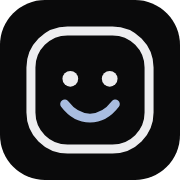
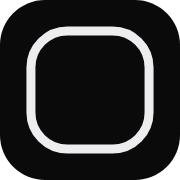
fix(site): drop the smiley mark and unslop landing chrome
Header and footer are the word sillyapps only. Favicon and apple-touch keep the rounded square without a face. Eyebrows stay sentence case. Hero emphasis is muted roman, not italic. Buttons and the theme toggle use nested radii instead of pills. App notes are text with middots. Hero padding is tighter so the empty band is shorter.

Copy is unchanged.

Changed region(s): [[0.3333, 0.5556, 0.6667, 0.6944], [0.5556, 0.3889, 0.6667, 0.5], [0.3333, 0.3889, 0.4444, 0.5]]

diff --git a/site/styles.css b/site/styles.css
@@ -20,6 +20,8 @@
   --shadow: 0 1px 2px var(--shadow-color), 0 8px 24px var(--shadow-color);
   --radius: 14px;
   --radius-sm: 8px;
+  --radius-control: 10px;
+  --radius-lg: 16px;
   --serif: "Iowan Old Style", "Palatino Linotype", Palatino, "Book Antiqua", Georgia, serif;
   --sans: "Inter", ui-sans-serif, system-ui, -apple-system, "Segoe UI", Roboto, "Helvetica Neue", Arial, sans-serif;
   --mono: ui-monospace, "SF Mono", Menlo, Consolas, monospace;
@@ -58,8 +60,7 @@ a:hover { text-decoration-color: currentColor; }
   display: flex; align-items: center; justify-content: space-between; gap: var(--s4);
   padding: var(--s5) 0;
 }
-.wordmark { display: inline-flex; align-items: center; gap: 10px; color: var(--ink); text-decoration: none; font-weight: 600; font-size: 15px; letter-spacing: -0.01em; }
-.wordmark-mark { width: 22px; height: 22px; }
+.wordmark { display: inline-flex; align-items: center; color: var(--ink); text-decoration: none; font-weight: 600; font-size: 15px; letter-spacing: -0.01em; }
 .header-tools { display: flex; align-items: center; gap: var(--s5); margin-left: auto; }
 .byline { display: flex; align-items: center; gap: var(--s5); margin: 0; color: var(--muted); font-size: 14px; }
 .byline a, .header-waitlist { color: var(--muted); text-decoration: none; font-size: 14px; }
@@ -67,35 +68,31 @@ a:hover { text-decoration-color: currentColor; }
 .nav-hide-sm { }
 @media (max-width: 640px) { .nav-hide-sm { display: none; } .header-tools { gap: var(--s3); } }
 
-.theme-toggle { position: relative; display: inline-flex; margin: 0; padding: 2px; border: 1px solid var(--line); border-radius: 999px; font-size: 12px; }
+.theme-toggle { position: relative; display: inline-flex; margin: 0; padding: 2px; border: 1px solid var(--line); border-radius: var(--radius-control); font-size: 12px; }
 .theme-toggle legend { position: absolute; width: 1px; height: 1px; overflow: hidden; clip: rect(0 0 0 0); white-space: nowrap; }
-.theme-toggle label { display: inline-flex; align-items: center; padding: 3px 10px; border-radius: 999px; color: var(--muted); cursor: pointer; }
+.theme-toggle label { display: inline-flex; align-items: center; padding: 3px 10px; border-radius: var(--radius-sm); color: var(--muted); cursor: pointer; }
 .theme-toggle label:has(input:checked) { color: var(--ink); background: var(--paper-2); box-shadow: inset 0 0 0 1px var(--line); }
 .theme-toggle input { position: absolute; opacity: 0; width: 1px; height: 1px; margin: 0; pointer-events: none; }
 .theme-toggle label:focus-within { outline: 2px solid var(--accent); outline-offset: 2px; }
 
-/* Shared type */
-.eyebrow { margin: 0 0 var(--s4); color: var(--muted); font-family: var(--mono); font-size: 12px; letter-spacing: 0.08em; text-transform: uppercase; }
+.eyebrow { margin: 0 0 var(--s4); color: var(--muted); font-family: var(--mono); font-size: 12px; letter-spacing: 0.02em; }
 .section-title { margin: 0; font-family: var(--serif); font-weight: 400; font-size: clamp(30px, 4.2vw, 44px); line-height: 1.1; letter-spacing: -0.02em; }
 .section-lead { margin: var(--s4) 0 0; max-width: 34rem; color: var(--muted); font-size: 17px; }
 
-/* Hero */
-.hero { padding: var(--s9) 0 var(--s9); border-bottom: 1px solid var(--line); }
+.hero { padding: var(--s8) 0 var(--s7); border-bottom: 1px solid var(--line); }
 .hero h1 {
   margin: 0; max-width: 15ch; font-family: var(--serif); font-weight: 400;
-  font-size: clamp(44px, 8vw, 88px); line-height: 1.02; letter-spacing: -0.03em;
+  font-size: clamp(40px, 6.8vw, 72px); line-height: 1.04; letter-spacing: -0.03em;
 }
-.hero h1 em { font-style: italic; color: var(--muted); }
-.hero-lead { margin: var(--s6) 0 0; max-width: 36rem; color: var(--muted); font-size: clamp(17px, 1.6vw, 19px); }
-.hero-actions { display: flex; flex-wrap: wrap; gap: var(--s3); margin-top: var(--s7); }
-.hero-meta { display: flex; flex-wrap: wrap; gap: var(--s2) var(--s5); margin: var(--s7) 0 0; padding: 0; list-style: none; color: var(--faint); font-size: 13px; }
-.hero-meta li::before { content: ""; display: inline-block; width: 5px; height: 5px; margin-right: 10px; border-radius: 50%; background: var(--accent); vertical-align: middle; }
-@media (max-width: 640px) { .hero { padding: var(--s8) 0; } }
+.hero h1 em { font-style: normal; font-weight: 400; color: var(--muted); }
+.hero-lead { margin: var(--s5) 0 0; max-width: 36rem; color: var(--muted); font-size: clamp(17px, 1.6vw, 19px); }
+.hero-actions { display: flex; flex-wrap: wrap; gap: var(--s3); margin-top: var(--s6); }
+.hero-meta { display: flex; flex-wrap: wrap; gap: var(--s2) var(--s5); margin: var(--s5) 0 0; padding: 0; list-style: none; color: var(--faint); font-size: 13px; }
+@media (max-width: 640px) { .hero { padding: var(--s7) 0 var(--s6); } }
 
-/* Buttons */
 .btn {
   display: inline-flex; align-items: center; justify-content: center; gap: var(--s2);
-  min-height: 44px; padding: 0 18px; border: 1px solid transparent; border-radius: 999px;
+  min-height: 44px; padding: 0 18px; border: 1px solid transparent; border-radius: var(--radius-control);
   font: inherit; font-size: 14px; font-weight: 500; text-decoration: none; cursor: pointer;
   transition: background-color .15s ease, border-color .15s ease, color .15s ease;
 }
@@ -112,19 +109,20 @@ a:hover { text-decoration-color: currentColor; }
 .app-grid { display: grid; gap: var(--s4); grid-template-columns: 1fr; }
 @media (min-width: 720px) { .app-grid { grid-template-columns: repeat(2, 1fr); } }
 .app-card {
-  display: flex; flex-direction: column; gap: var(--s5);
-  padding: var(--s6); background: var(--card); border: 1px solid var(--line); border-radius: var(--radius);
+  display: flex; flex-direction: column; gap: var(--s4);
+  padding: var(--s5); background: var(--card); border: 1px solid var(--line); border-radius: var(--radius);
   transition: border-color .2s ease;
 }
 .app-card:hover { border-color: var(--line-strong); }
 .app-top { display: flex; align-items: center; justify-content: space-between; }
-.icon { width: 48px; height: 48px; border-radius: 12px; }
+.icon { width: 40px; height: 40px; border-radius: 10px; }
 .app-index { color: var(--faint); font-family: var(--mono); font-size: 12px; }
 .app-card h3 { margin: 0; font-family: var(--serif); font-weight: 400; font-size: 26px; line-height: 1.15; letter-spacing: -0.015em; }
 .app-card .pitch { margin: var(--s2) 0 0; color: var(--ink); font-size: 16px; }
 .app-card .blurb { margin: 0; color: var(--muted); font-size: 15px; }
-.notes { display: flex; flex-wrap: wrap; gap: 6px; margin: 0; padding: 0; list-style: none; }
-.notes li { padding: 2px 10px; color: var(--muted); border: 1px solid var(--line); border-radius: 999px; font-size: 12px; line-height: 20px; }
+.notes { display: flex; flex-wrap: wrap; gap: 0; margin: 0; padding: 0; list-style: none; color: var(--muted); font-size: 12px; line-height: 20px; }
+.notes li { margin: 0; padding: 0; }
+.notes li:not(:last-child)::after { content: "·"; margin: 0 0.45em; color: var(--faint); }
 .cta-row { display: flex; flex-wrap: wrap; gap: var(--s2); margin: auto 0 0; padding-top: var(--s2); }
 .cta-row .btn { min-height: 40px; font-size: 13px; padding: 0 14px; }
 
@@ -147,7 +145,7 @@ a:hover { text-decoration-color: currentColor; }
 .waitlist { padding: 0 0 var(--s9); }
 .waitlist-panel {
   display: grid; gap: var(--s7); padding: var(--s8);
-  background: var(--paper-2); border: 1px solid var(--line); border-radius: calc(var(--radius) + 6px);
+  background: var(--paper-2); border: 1px solid var(--line); border-radius: var(--radius-lg);
 }
 @media (min-width: 880px) { .waitlist-panel { grid-template-columns: 1fr 1.1fr; align-items: center; } }
 @media (max-width: 640px) { .waitlist-panel { padding: var(--s6) var(--s5); } }

diff --git a/snippets/styles.css b/snippets/styles.css
@@ -20,6 +20,8 @@
   --shadow: 0 1px 2px var(--shadow-color), 0 8px 24px var(--shadow-color);
   --radius: 14px;
   --radius-sm: 8px;
+  --radius-control: 10px;
+  --radius-lg: 16px;
   --serif: "Iowan Old Style", "Palatino Linotype", Palatino, "Book Antiqua", Georgia, serif;
   --sans: "Inter", ui-sans-serif, system-ui, -apple-system, "Segoe UI", Roboto, "Helvetica Neue", Arial, sans-serif;
   --mono: ui-monospace, "SF Mono", Menlo, Consolas, monospace;
@@ -58,8 +60,7 @@ a:hover { text-decoration-color: currentColor; }
   display: flex; align-items: center; justify-content: space-between; gap: var(--s4);
   padding: var(--s5) 0;
 }
-.wordmark { display: inline-flex; align-items: center; gap: 10px; color: var(--ink); text-decoration: none; font-weight: 600; font-size: 15px; letter-spacing: -0.01em; }
-.wordmark-mark { width: 22px; height: 22px; }
+.wordmark { display: inline-flex; align-items: center; color: var(--ink); text-decoration: none; font-weight: 600; font-size: 15px; letter-spacing: -0.01em; }
 .header-tools { display: flex; align-items: center; gap: var(--s5); margin-left: auto; }
 .byline { display: flex; align-items: center; gap: var(--s5); margin: 0; color: var(--muted); font-size: 14px; }
 .byline a, .header-waitlist { color: var(--muted); text-decoration: none; font-size: 14px; }
@@ -67,35 +68,31 @@ a:hover { text-decoration-color: currentColor; }
 .nav-hide-sm { }
 @media (max-width: 640px) { .nav-hide-sm { display: none; } .header-tools { gap: var(--s3); } }
 
-.theme-toggle { position: relative; display: inline-flex; margin: 0; padding: 2px; border: 1px solid var(--line); border-radius: 999px; font-size: 12px; }
+.theme-toggle { position: relative; display: inline-flex; margin: 0; padding: 2px; border: 1px solid var(--line); border-radius: var(--radius-control); font-size: 12px; }
 .theme-toggle legend { position: absolute; width: 1px; height: 1px; overflow: hidden; clip: rect(0 0 0 0); white-space: nowrap; }
-.theme-toggle label { display: inline-flex; align-items: center; padding: 3px 10px; border-radius: 999px; color: var(--muted); cursor: pointer; }
+.theme-toggle label { display: inline-flex; align-items: center; padding: 3px 10px; border-radius: var(--radius-sm); color: var(--muted); cursor: pointer; }
 .theme-toggle label:has(input:checked) { color: var(--ink); background: var(--paper-2); box-shadow: inset 0 0 0 1px var(--line); }
 .theme-toggle input { position: absolute; opacity: 0; width: 1px; height: 1px; margin: 0; pointer-events: none; }
 .theme-toggle label:focus-within { outline: 2px solid var(--accent); outline-offset: 2px; }
 
-/* Shared type */
-.eyebrow { margin: 0 0 var(--s4); color: var(--muted); font-family: var(--mono); font-size: 12px; letter-spacing: 0.08em; text-transform: uppercase; }
+.eyebrow { margin: 0 0 var(--s4); color: var(--muted); font-family: var(--mono); font-size: 12px; letter-spacing: 0.02em; }
 .section-title { margin: 0; font-family: var(--serif); font-weight: 400; font-size: clamp(30px, 4.2vw, 44px); line-height: 1.1; letter-spacing: -0.02em; }
 .section-lead { margin: var(--s4) 0 0; max-width: 34rem; color: var(--muted); font-size: 17px; }
 
-/* Hero */
-.hero { padding: var(--s9) 0 var(--s9); border-bottom: 1px solid var(--line); }
+.hero { padding: var(--s8) 0 var(--s7); border-bottom: 1px solid var(--line); }
 .hero h1 {
   margin: 0; max-width: 15ch; font-family: var(--serif); font-weight: 400;
-  font-size: clamp(44px, 8vw, 88px); line-height: 1.02; letter-spacing: -0.03em;
+  font-size: clamp(40px, 6.8vw, 72px); line-height: 1.04; letter-spacing: -0.03em;
 }
-.hero h1 em { font-style: italic; color: var(--muted); }
-.hero-lead { margin: var(--s6) 0 0; max-width: 36rem; color: var(--muted); font-size: clamp(17px, 1.6vw, 19px); }
-.hero-actions { display: flex; flex-wrap: wrap; gap: var(--s3); margin-top: var(--s7); }
-.hero-meta { display: flex; flex-wrap: wrap; gap: var(--s2) var(--s5); margin: var(--s7) 0 0; padding: 0; list-style: none; color: var(--faint); font-size: 13px; }
-.hero-meta li::before { content: ""; display: inline-block; width: 5px; height: 5px; margin-right: 10px; border-radius: 50%; background: var(--accent); vertical-align: middle; }
-@media (max-width: 640px) { .hero { padding: var(--s8) 0; } }
+.hero h1 em { font-style: normal; font-weight: 400; color: var(--muted); }
+.hero-lead { margin: var(--s5) 0 0; max-width: 36rem; color: var(--muted); font-size: clamp(17px, 1.6vw, 19px); }
+.hero-actions { display: flex; flex-wrap: wrap; gap: var(--s3); margin-top: var(--s6); }
+.hero-meta { display: flex; flex-wrap: wrap; gap: var(--s2) var(--s5); margin: var(--s5) 0 0; padding: 0; list-style: none; color: var(--faint); font-size: 13px; }
+@media (max-width: 640px) { .hero { padding: var(--s7) 0 var(--s6); } }
 
-/* Buttons */
 .btn {
   display: inline-flex; align-items: center; justify-content: center; gap: var(--s2);
-  min-height: 44px; padding: 0 18px; border: 1px solid transparent; border-radius: 999px;
+  min-height: 44px; padding: 0 18px; border: 1px solid transparent; border-radius: var(--radius-control);
   font: inherit; font-size: 14px; font-weight: 500; text-decoration: none; cursor: pointer;
   transition: background-color .15s ease, border-color .15s ease, color .15s ease;
 }
@@ -112,19 +109,20 @@ a:hover { text-decoration-color: currentColor; }
 .app-grid { display: grid; gap: var(--s4); grid-template-columns: 1fr; }
 @media (min-width: 720px) { .app-grid { grid-template-columns: repeat(2, 1fr); } }
 .app-card {
-  display: flex; flex-direction: column; gap: var(--s5);
-  padding: var(--s6); background: var(--card); border: 1px solid var(--line); border-radius: var(--radius);
+  display: flex; flex-direction: column; gap: var(--s4);
+  padding: var(--s5); background: var(--card); border: 1px solid var(--line); border-radius: var(--radius);
   transition: border-color .2s ease;
 }
 .app-card:hover { border-color: var(--line-strong); }
 .app-top { display: flex; align-items: center; justify-content: space-between; }
-.icon { width: 48px; height: 48px; border-radius: 12px; }
+.icon { width: 40px; height: 40px; border-radius: 10px; }
 .app-index { color: var(--faint); font-family: var(--mono); font-size: 12px; }
 .app-card h3 { margin: 0; font-family: var(--serif); font-weight: 400; font-size: 26px; line-height: 1.15; letter-spacing: -0.015em; }
 .app-card .pitch { margin: var(--s2) 0 0; color: var(--ink); font-size: 16px; }
 .app-card .blurb { margin: 0; color: var(--muted); font-size: 15px; }
-.notes { display: flex; flex-wrap: wrap; gap: 6px; margin: 0; padding: 0; list-style: none; }
-.notes li { padding: 2px 10px; color: var(--muted); border: 1px solid var(--line); border-radius: 999px; font-size: 12px; line-height: 20px; }
+.notes { display: flex; flex-wrap: wrap; gap: 0; margin: 0; padding: 0; list-style: none; color: var(--muted); font-size: 12px; line-height: 20px; }
+.notes li { margin: 0; padding: 0; }
+.notes li:not(:last-child)::after { content: "·"; margin: 0 0.45em; color: var(--faint); }
 .cta-row { display: flex; flex-wrap: wrap; gap: var(--s2); margin: auto 0 0; padding-top: var(--s2); }
 .cta-row .btn { min-height: 40px; font-size: 13px; padding: 0 14px; }
 
@@ -147,7 +145,7 @@ a:hover { text-decoration-color: currentColor; }
 .waitlist { padding: 0 0 var(--s9); }
 .waitlist-panel {
   display: grid; gap: var(--s7); padding: var(--s8);
-  background: var(--paper-2); border: 1px solid var(--line); border-radius: calc(var(--radius) + 6px);
+  background: var(--paper-2); border: 1px solid var(--line); border-radius: var(--radius-lg);
 }
 @media (min-width: 880px) { .waitlist-panel { grid-template-columns: 1fr 1.1fr; align-items: center; } }
 @media (max-width: 640px) { .waitlist-panel { padding: var(--s6) var(--s5); } }

diff --git a/snippets/index.html b/snippets/index.html
@@ -28,7 +28,7 @@
   <body>
     <a class="skip" href="#main">Skip to content</a>
     <header class="site-header wrap">
-      <a class="wordmark" href="https://sillyapps.co/" aria-label="sillyapps home"><svg class="wordmark-mark" viewBox="0 0 24 24" aria-hidden="true"><rect x="1" y="1" width="22" height="22" rx="7" fill="none" stroke="currentColor" stroke-width="1.5"/><circle cx="9" cy="10" r="1.3" fill="currentColor"/><circle cx="15" cy="10" r="1.3" fill="currentColor"/><path d="M8 14.5c1.2 1.6 2.6 2.3 4 2.3s2.8-.7 4-2.3" fill="none" stroke="currentColor" stroke-width="1.5" stroke-linecap="round"/></svg><span>sillyapps</span></a>
+      <a class="wordmark" href="https://sillyapps.co/" aria-label="sillyapps home">sillyapps</a>
       <nav class="header-tools" aria-label="Primary">
         <p class="byline">
           <a class="nav-hide-sm" href="https://github.com/EdmundLimBoEn/snippets">GitHub</a>
@@ -60,7 +60,7 @@
     <footer class="site-footer">
       <div class="wrap">
         <div class="footer-brand">
-      <a class="wordmark" href="https://sillyapps.co/" aria-label="sillyapps home"><svg class="wordmark-mark" viewBox="0 0 24 24" aria-hidden="true"><rect x="1" y="1" width="22" height="22" rx="7" fill="none" stroke="currentColor" stroke-width="1.5"/><circle cx="9" cy="10" r="1.3" fill="currentColor"/><circle cx="15" cy="10" r="1.3" fill="currentColor"/><path d="M8 14.5c1.2 1.6 2.6 2.3 4 2.3s2.8-.7 4-2.3" fill="none" stroke="currentColor" stroke-width="1.5" stroke-linecap="round"/></svg><span>sillyapps</span></a>
+          <a class="wordmark" href="https://sillyapps.co/" aria-label="sillyapps home">sillyapps</a>
           <p>Small free apps by Edmund Lim.</p>
           <ul class="footer-links">
             <li><a href="https://sillyapps.co/">sillyapps.co</a></li>

diff --git a/site/index.html b/site/index.html
@@ -101,7 +101,7 @@
   <body>
     <a class="skip" href="#main">Skip to content</a>
     <header class="site-header wrap">
-      <a class="wordmark" href="/" aria-label="sillyapps home"><svg class="wordmark-mark" viewBox="0 0 24 24" aria-hidden="true"><rect x="1" y="1" width="22" height="22" rx="7" fill="none" stroke="currentColor" stroke-width="1.5"/><circle cx="9" cy="10" r="1.3" fill="currentColor"/><circle cx="15" cy="10" r="1.3" fill="currentColor"/><path d="M8 14.5c1.2 1.6 2.6 2.3 4 2.3s2.8-.7 4-2.3" fill="none" stroke="currentColor" stroke-width="1.5" stroke-linecap="round"/></svg><span>sillyapps</span></a>
+      <a class="wordmark" href="/" aria-label="sillyapps home">sillyapps</a>
       <nav class="header-tools" aria-label="Primary">
         <p class="byline">
           <a class="nav-hide-sm" href="#apps">Apps</a>
@@ -243,7 +243,7 @@
     <footer class="site-footer">
       <div class="wrap">
         <div class="footer-brand">
-          <a class="wordmark" href="/"><svg class="wordmark-mark" viewBox="0 0 24 24" aria-hidden="true"><rect x="1" y="1" width="22" height="22" rx="7" fill="none" stroke="currentColor" stroke-width="1.5"/><circle cx="9" cy="10" r="1.3" fill="currentColor"/><circle cx="15" cy="10" r="1.3" fill="currentColor"/><path d="M8 14.5c1.2 1.6 2.6 2.3 4 2.3s2.8-.7 4-2.3" fill="none" stroke="currentColor" stroke-width="1.5" stroke-linecap="round"/></svg><span>sillyapps</span></a>
+          <a class="wordmark" href="/" aria-label="sillyapps home">sillyapps</a>
           <p>Small free apps by Edmund Lim.</p>
           <ul class="footer-links">
             <li><a href="mailto:hello@[REDACTED].systems">hello@[REDACTED].systems</a></li>

diff --git a/scripts/apple-touch.html b/scripts/apple-touch.html
@@ -12,8 +12,6 @@
     <svg xmlns="http://www.w3.org/2000/svg" viewBox="0 0 32 32">
   <rect width="32" height="32" rx="8" fill="#0A0A0B"/>
   <rect x="5.5" y="5.5" width="21" height="21" rx="6.5" fill="none" stroke="#EDEDEF" stroke-width="1.6"/>
-  <circle cx="12.5" cy="14" r="1.4" fill="#EDEDEF"/><circle cx="19.5" cy="14" r="1.4" fill="#EDEDEF"/>
-  <path d="M11.5 18.5c1.3 1.7 2.9 2.5 4.5 2.5s3.2-.8 4.5-2.5" fill="none" stroke="#A9BDE0" stroke-width="1.6" stroke-linecap="round"/>
 </svg>
   </body>
 </html>

diff --git a/scripts/og.html b/scripts/og.html
@@ -41,7 +41,7 @@
   <body>
     <div class="mark">sillyapps.co</div>
     <div>
-      <h1>Small free apps,<br><em style="color:#9d9da6">taken slightly seriously.</em></h1>
+      <h1>Small free apps,<br><em style="color:#9d9da6;font-style:normal">taken slightly seriously.</em></h1>
       <p>A tiny studio by Edmund Lim. Every app is free.</p>
     </div>
     <div class="foot">
